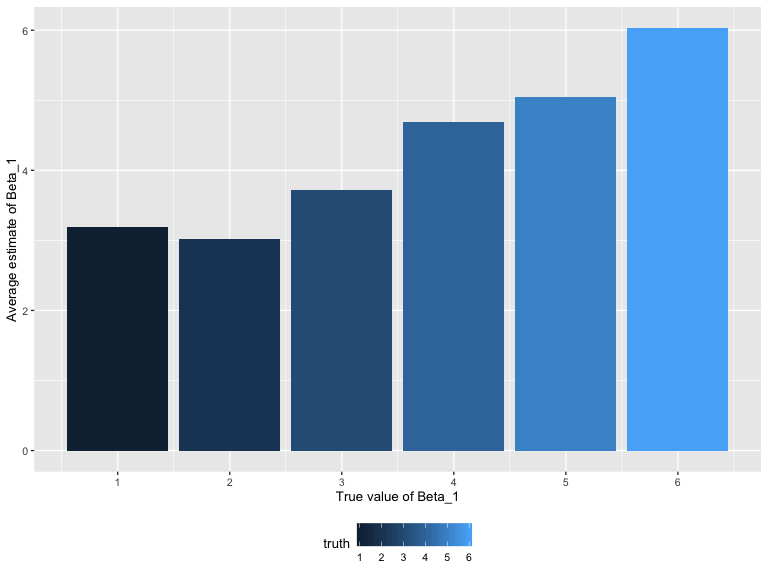
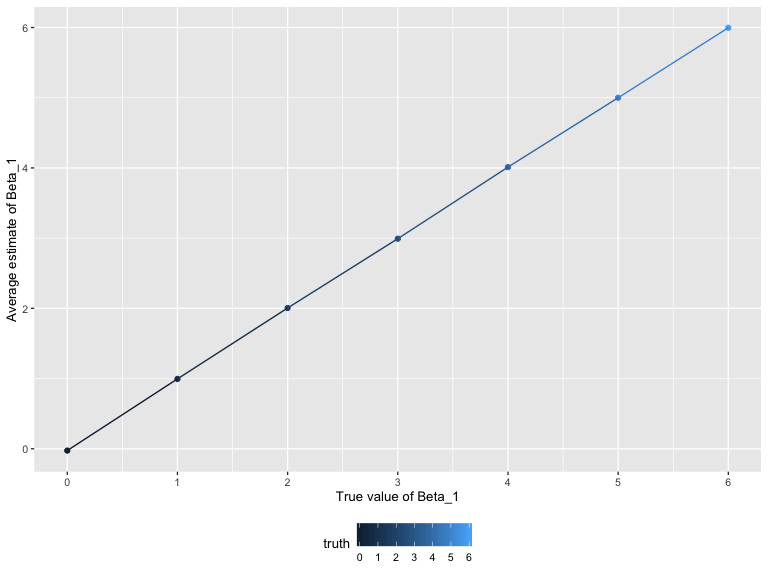
Update solutions.

diff --git a/p8105_hw5_jc5314.md b/p8105_hw5_jc5314.md
@@ -143,7 +143,7 @@ generate_df = function(beta_1, generate_xy, n = 30, beta_0 = 2, sigma = sqrt(50)
   
   tibble(
     truth = beta_1,
-    data = rerun(10, generate_xy(beta_1, n, beta_0, sigma)),
+    data = rerun(10000, generate_xy(beta_1, n, beta_0, sigma)),
     model = map(data, ~ broom::tidy(lm(y ~ x, data = .))),
     estimate = map(model, ~ .x[2,2]),
     p_value = map(model, ~ .x[2,5])
@@ -175,7 +175,7 @@ df_1 = generate_df(beta_1 = 0, generate_xy)
 df_1
 ```
 
-    ## # A tibble: 10 x 4
+    ## # A tibble: 10,000 x 4
     ##    truth data              estimate p_value
     ##    <dbl> <list>               <dbl>   <dbl>
     ##  1     0 <tibble [30 × 2]>  0.296     0.798
@@ -188,6 +188,7 @@ df_1
     ##  8     0 <tibble [30 × 2]>  1.09      0.366
     ##  9     0 <tibble [30 × 2]>  0.806     0.377
     ## 10     0 <tibble [30 × 2]>  2.35      0.131
+    ## # … with 9,990 more rows
 
 2)  When ![\\beta\_1](https://latex.codecogs.com/png.latex?%5Cbeta_1
     "\\beta_1") = {1, 2, 3, 4, 5, 6}:
@@ -204,20 +205,26 @@ df_2 =
 df_2
 ```
 
-    ## # A tibble: 60 x 4
+    ## # A tibble: 60,000 x 4
     ##    truth data              estimate p_value
     ##    <dbl> <list>               <dbl>   <dbl>
-    ##  1     1 <tibble [30 × 2]>   2.72    0.0317
-    ##  2     1 <tibble [30 × 2]>   3.67    0.0209
-    ##  3     1 <tibble [30 × 2]>   2.54    0.0625
-    ##  4     1 <tibble [30 × 2]>   0.0787  0.960 
-    ##  5     1 <tibble [30 × 2]>   0.150   0.886 
-    ##  6     1 <tibble [30 × 2]>   0.0752  0.959 
-    ##  7     1 <tibble [30 × 2]>   1.07    0.338 
-    ##  8     1 <tibble [30 × 2]>  -0.940   0.630 
-    ##  9     1 <tibble [30 × 2]>   1.51    0.310 
-    ## 10     1 <tibble [30 × 2]>   1.77    0.241 
-    ## # … with 50 more rows
+    ##  1     1 <tibble [30 × 2]>   3.03    0.0247
+    ##  2     1 <tibble [30 × 2]>   1.39    0.295 
+    ##  3     1 <tibble [30 × 2]>   1.93    0.103 
+    ##  4     1 <tibble [30 × 2]>   0.0151  0.990 
+    ##  5     1 <tibble [30 × 2]>   0.111   0.944 
+    ##  6     1 <tibble [30 × 2]>  -1.24    0.366 
+    ##  7     1 <tibble [30 × 2]>   1.02    0.301 
+    ##  8     1 <tibble [30 × 2]>   1.82    0.223 
+    ##  9     1 <tibble [30 × 2]>   2.35    0.0765
+    ## 10     1 <tibble [30 × 2]>   2.46    0.0966
+    ## # … with 59,990 more rows
+
+``` r
+p3_df = rbind(df_1, df_2)
+```
+
+The two datasets were combined into one dataset contains called `p3_df`.
 
   - A plot showing the proportion of times the null was rejected (the
     power of the test) on the *y* axis and the true value of
@@ -227,7 +234,7 @@ df_2
 <!-- end list -->
 
 ``` r
-df_2 %>% 
+p3_df %>% 
   group_by(truth) %>% 
   mutate(
     reject_prop = sum(p_value < 0.05) / length(p_value)
@@ -238,19 +245,20 @@ df_2 %>%
   xlab("True value of Beta_1") +
   ylab("Proportion of times the null was rejected") +
   scale_x_continuous(
-    breaks = c(1, 2, 3, 4, 5, 6)
+    breaks = c(0, 1, 2, 3, 4, 5, 6)
   )
 ```
 
-<img src="p8105_hw5_jc5314_files/figure-gfm/unnamed-chunk-11-1.png" width="90%" />
+<img src="p8105_hw5_jc5314_files/figure-gfm/unnamed-chunk-12-1.png" width="90%" />
 
 *Comments:* Based on the plot, it can be seen that the power of the test
 was increased when the effect size increased. More specifically, the
-power was very small when the true value of
+powers were very small when the true values of
 ![\\beta\_1](https://latex.codecogs.com/png.latex?%5Cbeta_1 "\\beta_1")
-was less than 2, and the power was large and closed to 1 when the true
-value of ![\\beta\_1](https://latex.codecogs.com/png.latex?%5Cbeta_1
-"\\beta_1") was greater than 5.
+were less than 2, and the powers were large and closed to 1 when the
+true values of
+![\\beta\_1](https://latex.codecogs.com/png.latex?%5Cbeta_1 "\\beta_1")
+were greater than 5.
 
   - A plot showing the average estimate of
     ![\\hat{\\beta\_1}](https://latex.codecogs.com/png.latex?%5Chat%7B%5Cbeta_1%7D
@@ -261,19 +269,23 @@ value of ![\\beta\_1](https://latex.codecogs.com/png.latex?%5Cbeta_1
 <!-- end list -->
 
 ``` r
-df_2 %>% 
+plot1 = 
+  p3_df %>% 
   group_by(truth) %>% 
   summarize(mean_estimator = mean(estimate)) %>% 
-  ggplot(aes(x = truth, y = mean_estimator, fill = truth)) +
-  geom_col() +
+  ggplot(aes(x = truth, y = mean_estimator, color = truth)) +
+  geom_point() + 
+  geom_line() +
   xlab("True value of Beta_1") +
   ylab("Average estimate of Beta_1") +
   scale_x_continuous(
-    breaks = c(1, 2, 3, 4, 5, 6)
+    breaks = c(0, 1, 2, 3, 4, 5, 6)
   )
+
+plot1
 ```
 
-<img src="p8105_hw5_jc5314_files/figure-gfm/unnamed-chunk-12-1.png" width="90%" />
+<img src="p8105_hw5_jc5314_files/figure-gfm/unnamed-chunk-13-1.png" width="90%" />
 
   - A plot showing the average estimate of
     ![\\hat{\\beta\_1}](https://latex.codecogs.com/png.latex?%5Chat%7B%5Cbeta_1%7D
@@ -285,19 +297,36 @@ df_2 %>%
 <!-- end list -->
 
 ``` r
-df_2 %>% 
+null_reject_df = 
+  p3_df %>% 
   filter(p_value < 0.05) %>% 
   group_by(truth) %>% 
-  summarize(mean_estimator = mean(estimate)) %>% 
-  ggplot(aes(x = truth, y = mean_estimator, fill = truth)) +
-  geom_col() +
-  xlab("True value of Beta_1") +
-  ylab("Average estimate of Beta_1") +
-  scale_x_continuous(
-    breaks = c(1, 2, 3, 4, 5, 6)
-  )
+  summarize(mean_estimator = mean(estimate)) 
+
+plot2 = 
+  plot1 + 
+  geom_point(data = null_reject_df) +
+  geom_line(data = null_reject_df, color = "red")
+
+plot2
 ```
 
-<img src="p8105_hw5_jc5314_files/figure-gfm/unnamed-chunk-13-1.png" width="90%" />
+<img src="p8105_hw5_jc5314_files/figure-gfm/unnamed-chunk-14-1.png" width="90%" />
 
-*Comments:* Based on the plot,
+*Comments:* From the above plot, we can see that the sample averages of
+![\\hat{\\beta\_1}](https://latex.codecogs.com/png.latex?%5Chat%7B%5Cbeta_1%7D
+"\\hat{\\beta_1}") across tests for which the null was rejected were NOT
+approximately equal to the true value of
+![\\beta\_1](https://latex.codecogs.com/png.latex?%5Cbeta_1 "\\beta_1")
+when 0 \< ![\\beta\_1](https://latex.codecogs.com/png.latex?%5Cbeta_1
+"\\beta_1") \< 6. Because for 0 \<
+![\\beta\_1](https://latex.codecogs.com/png.latex?%5Cbeta_1 "\\beta_1")
+\< 6, a
+![\\hat{\\beta\_1}](https://latex.codecogs.com/png.latex?%5Chat%7B%5Cbeta_1%7D
+"\\hat{\\beta_1}") with a value smaller than the true
+![\\beta\_1](https://latex.codecogs.com/png.latex?%5Cbeta_1 "\\beta_1")
+will be close to 0 and rise a large p-value. Such an estimator with
+small value will not be rejected in the test. Thus, when we looking at
+the samples for which the null was rejected, those small estimators were
+exexcluded and this made the average value of remaining estimators
+larger than the true value.0000
